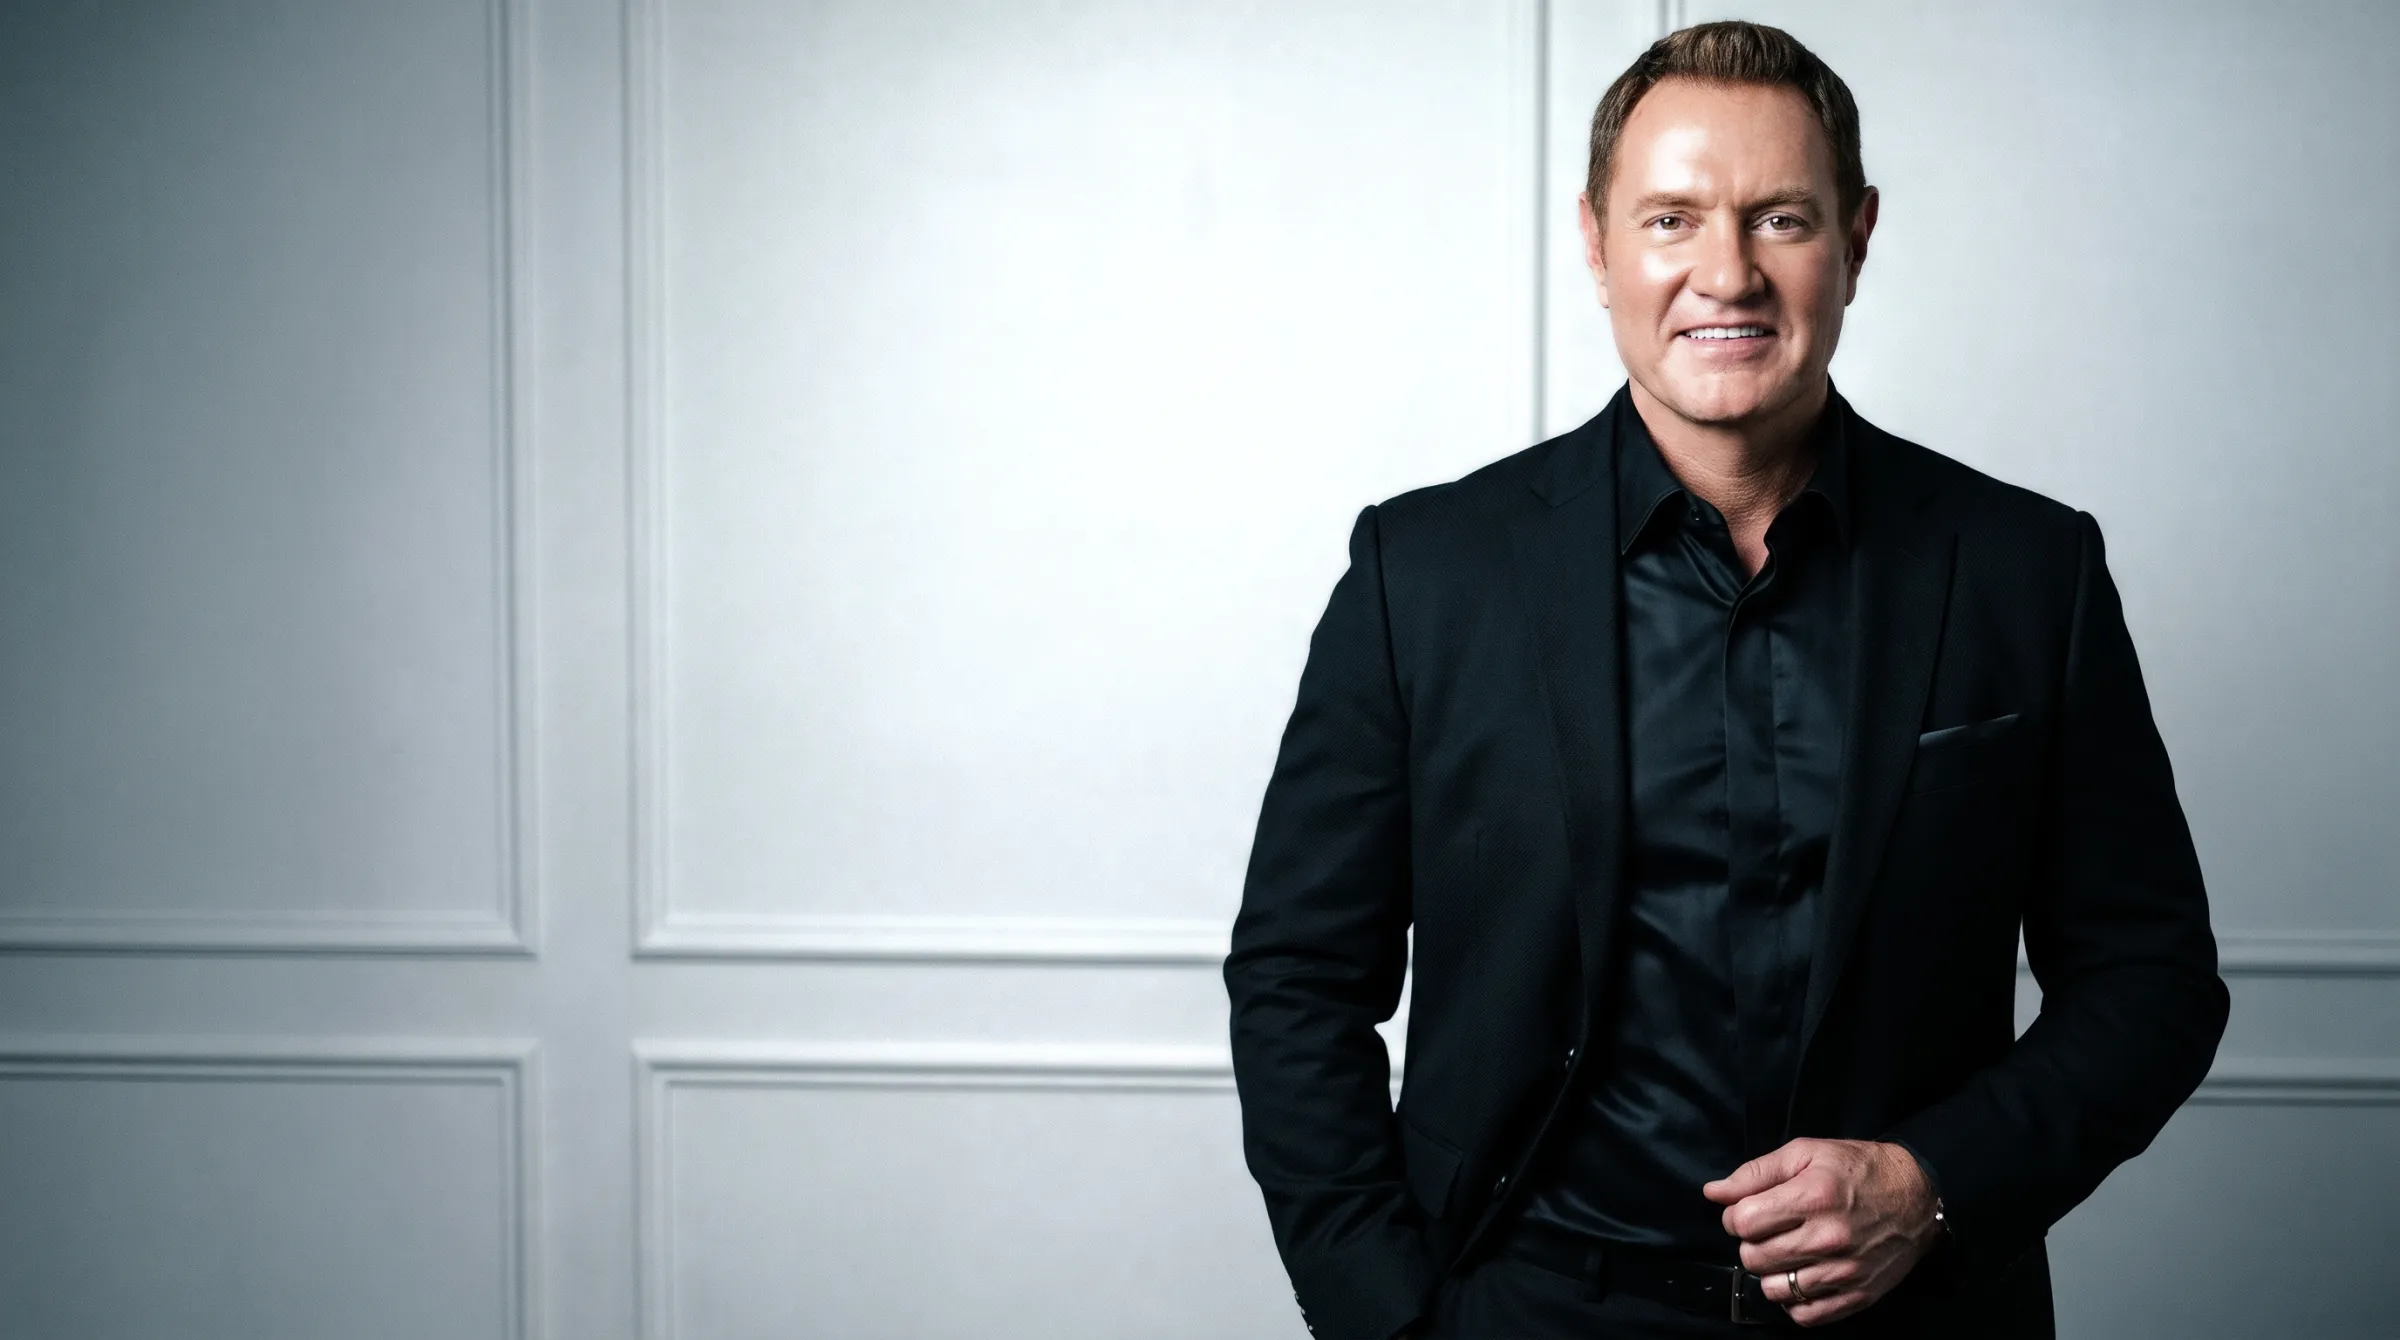
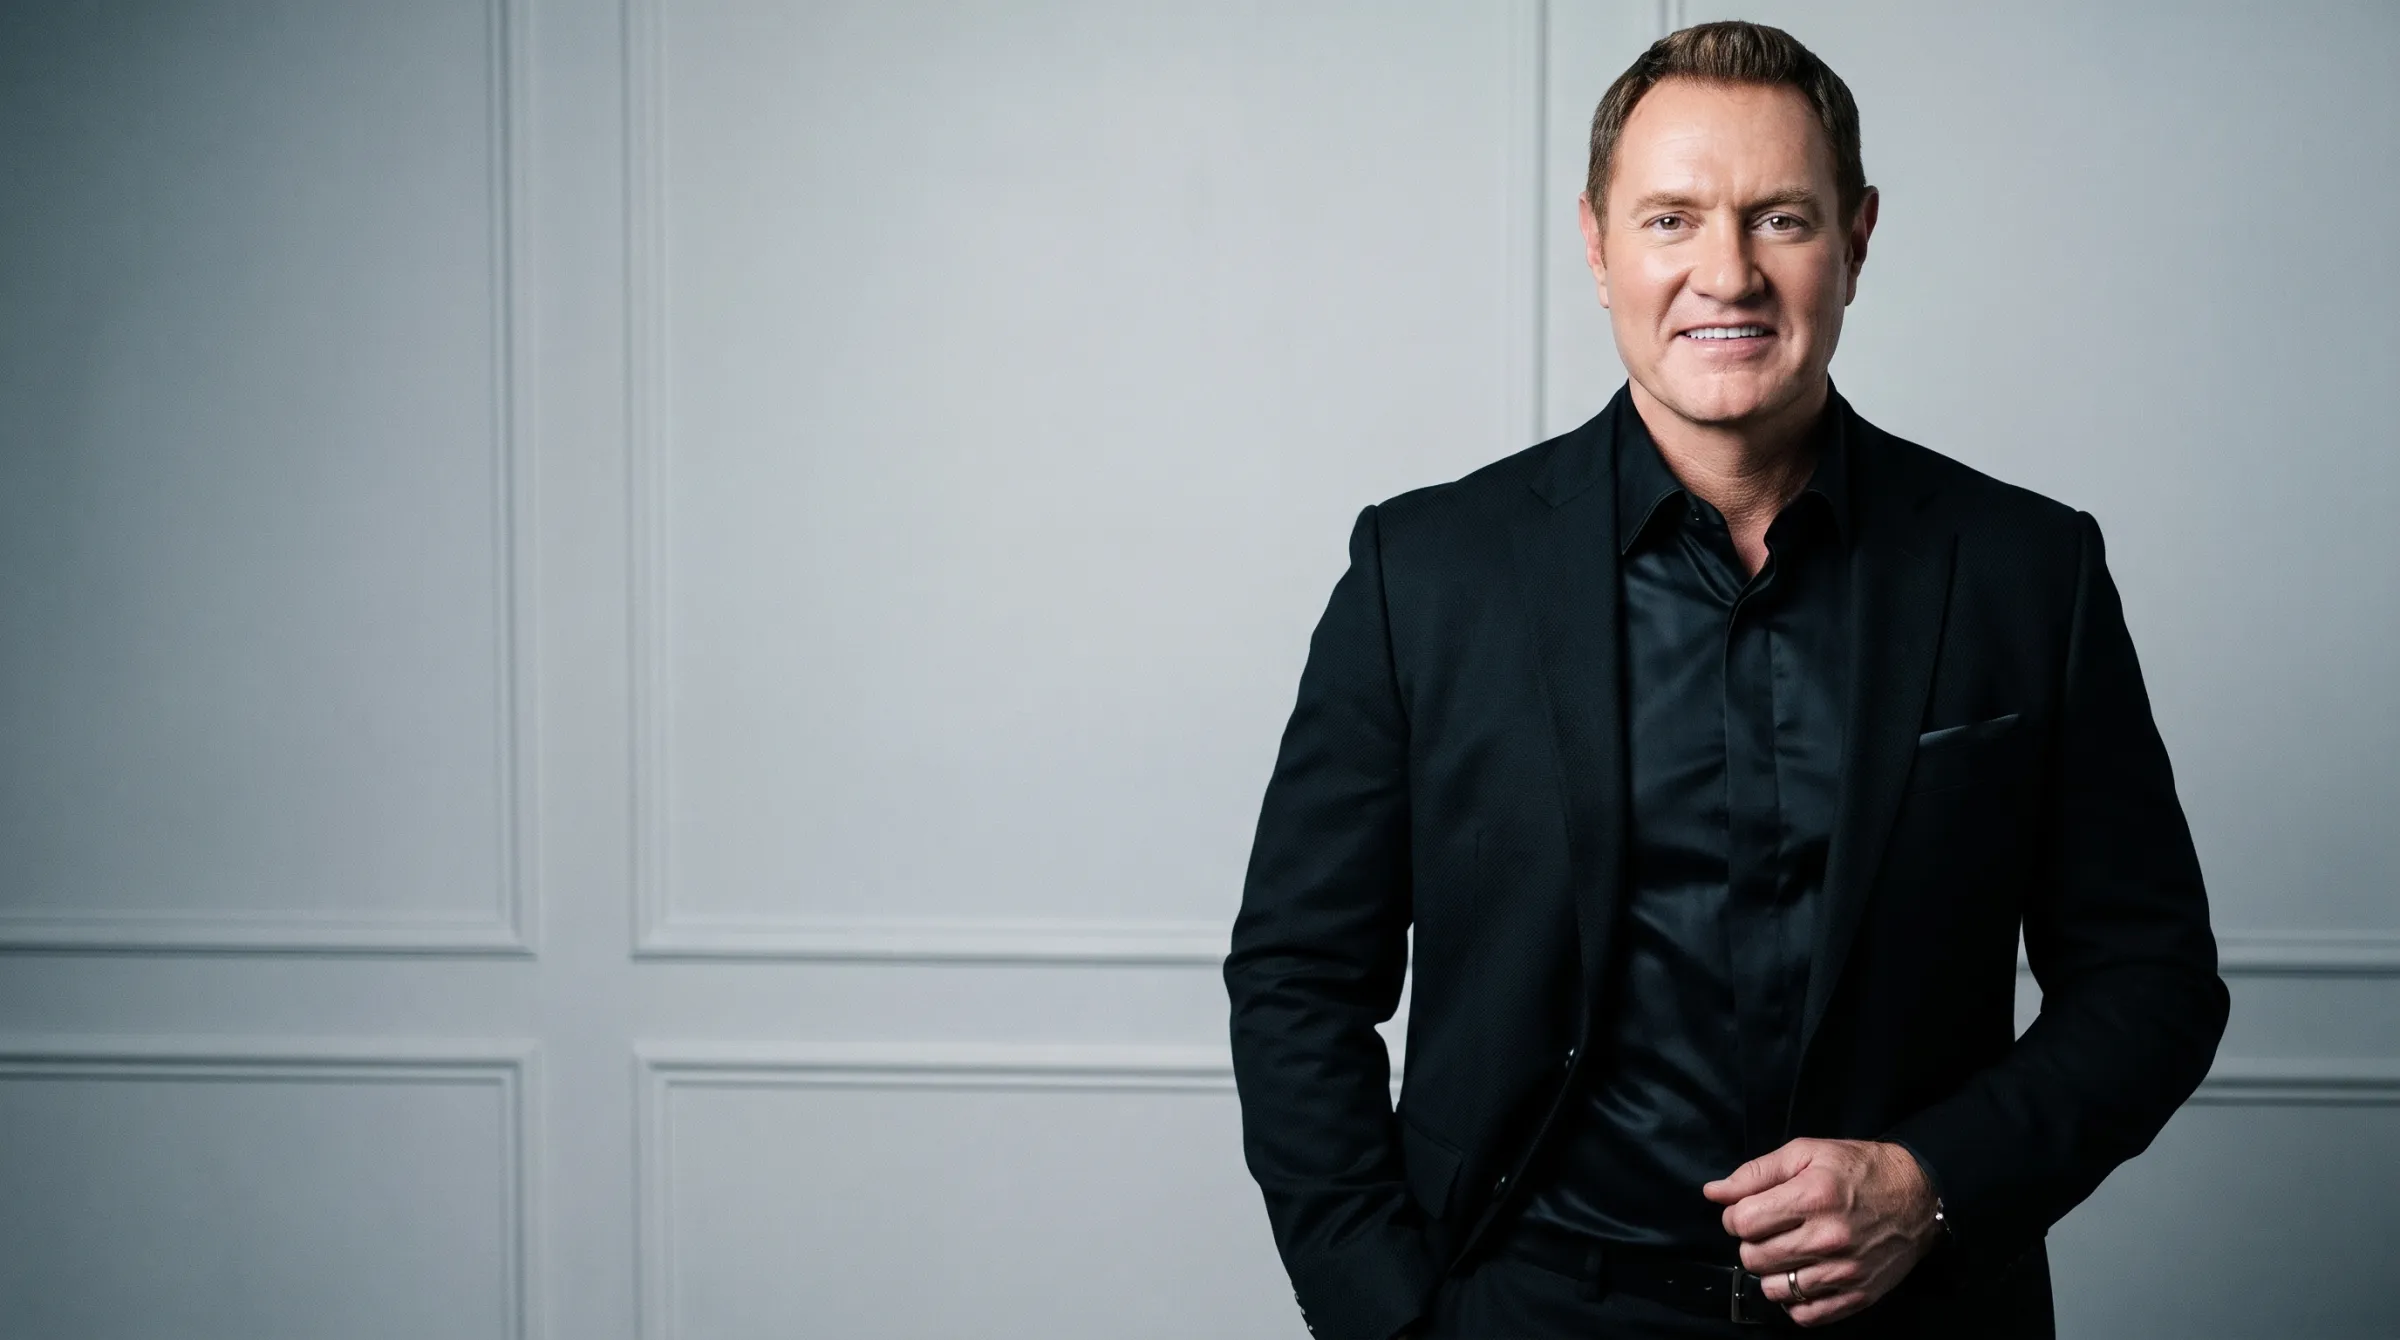
Red page: revert hero brightening; accessibility + dead-code sweep
- Revert hero to the original DH_black-black source (the wall-brighten made DH look
  shiny/over-processed); dd-hero-black.webp regenerated unmodified
- A11y: form fields get aria-labels (First name / Email address / Your role); fix
  heading skip (rd-h 'Without It'/'With DarrenDaily' h5 -> h3); darken --soft
  #838d9b -> #616a78 for text contrast on light bgs, give the dark testimonial
  sub its own lighter grey; lightbox dialog label -> 'Darren Hardy's message'
- Cleanup: remove dead CSS (.who-play, .sec.paper) and unreferenced assets
  (dd-ritual/dd-tce/dd-morning-orchid)

diff --git a/DarrenDaily/darrendaily-red.html b/DarrenDaily/darrendaily-red.html
@@ -48,7 +48,7 @@
     --mist:       #f3f5f8;
     --ink:        #14171c;
     --muted:      #545c68;
-    --soft:       #838d9b;
+    --soft:       #616a78;
     --line:       rgba(20, 23, 28, 0.12);
     --line-soft:  rgba(20, 23, 28, 0.07);
     --blue:       #a72632;
@@ -234,7 +234,6 @@
 
   /* ============ SECTION SCAFFOLD ============ */
   .sec { padding: 132px 0; }
-  .sec.paper { background: var(--paper); }
   .sec.mist  { background: var(--mist); }
   .sec-head { max-width: 760px; }
   .sec-head.center { margin: 0 auto; text-align: center; }
@@ -388,7 +387,7 @@
   .rd-n { display: block; font-weight: 800; font-size: 11px; letter-spacing: 0.22em; color: var(--azure); }
   .rd-step p { margin-top: 12px; font-size: 14px; line-height: 1.45; color: #fff; font-weight: 600; }
   .rd-compare { display: grid; grid-template-columns: 1fr 1fr; gap: 40px; margin-top: 40px; padding-top: 34px; border-top: 1px solid rgba(255,255,255,0.14); }
-  .rd-h { font-weight: 800; font-size: 11px; letter-spacing: 0.2em; text-transform: uppercase; margin-bottom: 16px; }
+  .rd-h { font-weight: 800; font-size: 11px; letter-spacing: 0.2em; text-transform: uppercase; margin: 0 0 16px; }
   .rd-h--without { color: rgba(255,255,255,0.45); }
   .rd-h--with { color: var(--azure); }
   .rd-compare p { font-size: 15.5px; line-height: 1.5; margin-bottom: 10px; }
@@ -451,7 +450,7 @@
   .tbody { padding: 24px 26px 28px; }
   .tquote { font-size: 15.5px; line-height: 1.55; color: #eaeef6; font-weight: 500; }
   .tname { margin-top: 18px; font-weight: 800; font-size: 14px; letter-spacing: 0.01em; color: #fff; }
-  .tname span { display: block; font-weight: 600; font-size: 11.5px; letter-spacing: 0.1em; text-transform: uppercase; color: var(--soft); margin-top: 4px; }
+  .tname span { display: block; font-weight: 600; font-size: 11.5px; letter-spacing: 0.1em; text-transform: uppercase; color: #a7b0bf; margin-top: 4px; }
   .trule { width: 30px; height: 3px; border-radius: 2px; background: var(--blue); margin-top: 18px; }
   @media (max-width: 900px) { .tw { padding: 84px 0; } .tw-grid { grid-template-columns: 1fr 1fr; } }
   @media (max-width: 600px) { .tw-grid { grid-template-columns: 1fr; max-width: 380px; margin: 0 auto; } }
@@ -474,11 +473,6 @@
   .who-close p b { color: var(--ink); }
   .who-close .who-tribe { margin-top: 28px; font-size: clamp(24px, 2.7vw, 40px); font-weight: 900; letter-spacing: -0.025em; line-height: 1.12; text-transform: uppercase; color: var(--ink); text-wrap: balance; }
   .who-close .who-tribe em { font-style: normal; color: var(--blue); white-space: nowrap; }
-  .who-play { display: inline-flex; align-items: center; gap: 16px; margin-top: 30px; text-decoration: none; }
-  .who-play .pbtn { width: 60px; height: 60px; border-radius: 50%; background: var(--blue); display: flex; align-items: center; justify-content: center; box-shadow: 0 14px 34px -10px rgba(var(--blue-rgb), 0.7); transition: transform .2s var(--ease), background .2s; }
-  .who-play:hover .pbtn { transform: scale(1.06); background: var(--blue-deep); }
-  .who-play .pbtn svg { width: 20px; height: 20px; fill: #fff; margin-left: 3px; }
-  .who-play .ptext { color: var(--ink); font-weight: 800; font-size: 12.5px; letter-spacing: 0.16em; text-transform: uppercase; }
   @media (max-width: 860px) { .who-grid { grid-template-columns: 1fr; } .who-card { padding: 40px 30px; } }
 
 
@@ -736,14 +730,14 @@
         </div>
         <div class="rd-compare">
           <div>
-            <h5 class="rd-h rd-h--without">Without It</h5>
+            <h3 class="rd-h rd-h--without">Without It</h3>
             <p>Scroll-fed mornings.</p>
             <p>Someone else's agenda first.</p>
             <p>Motivation that runs out.</p>
             <p>Reacting all day.</p>
           </div>
           <div>
-            <h5 class="rd-h rd-h--with">With DarrenDaily</h5>
+            <h3 class="rd-h rd-h--with">With DarrenDaily</h3>
             <p>One strong idea first.</p>
             <p>Calibrated, not motivated.</p>
             <p>A filter for the noise.</p>
@@ -891,10 +885,10 @@
 
     <form class="dd-form reveal" id="ddForm" novalidate>
       <div class="dd-row">
-        <input type="text" name="firstname" id="ddFirst" placeholder="First name *" autocomplete="given-name" required>
-        <input type="email" name="email" id="ddEmail" placeholder="Email *" autocomplete="email" required>
+        <input type="text" name="firstname" id="ddFirst" placeholder="First name *" aria-label="First name" autocomplete="given-name" required>
+        <input type="email" name="email" id="ddEmail" placeholder="Email *" aria-label="Email address" autocomplete="email" required>
       </div>
-      <select name="role" id="ddRole" required>
+      <select name="role" id="ddRole" aria-label="Your role" required>
         <option value="" disabled selected>Your role *</option>
         <option value="owner_0_500k">Business owner (revenue $0 to $500K)</option>
         <option value="owner_500k_1m">Business owner (revenue $500K to $1M)</option>
@@ -975,7 +969,7 @@
 <!-- ============ PREVIEW LIGHTBOX (placeholder video) ============ -->
 <div class="lightbox" id="previewLightbox" aria-hidden="true">
   <div class="lightbox-backdrop" data-lb-close></div>
-  <div class="lightbox-dialog" role="dialog" aria-modal="true" aria-label="DarrenDaily episode preview">
+  <div class="lightbox-dialog" role="dialog" aria-modal="true" aria-label="Darren Hardy's message">
     <button class="lightbox-close" type="button" data-lb-close aria-label="Close preview">
       <svg viewBox="0 0 24 24" aria-hidden="true"><path d="M6 6l12 12M18 6L6 18"/></svg>
     </button>
